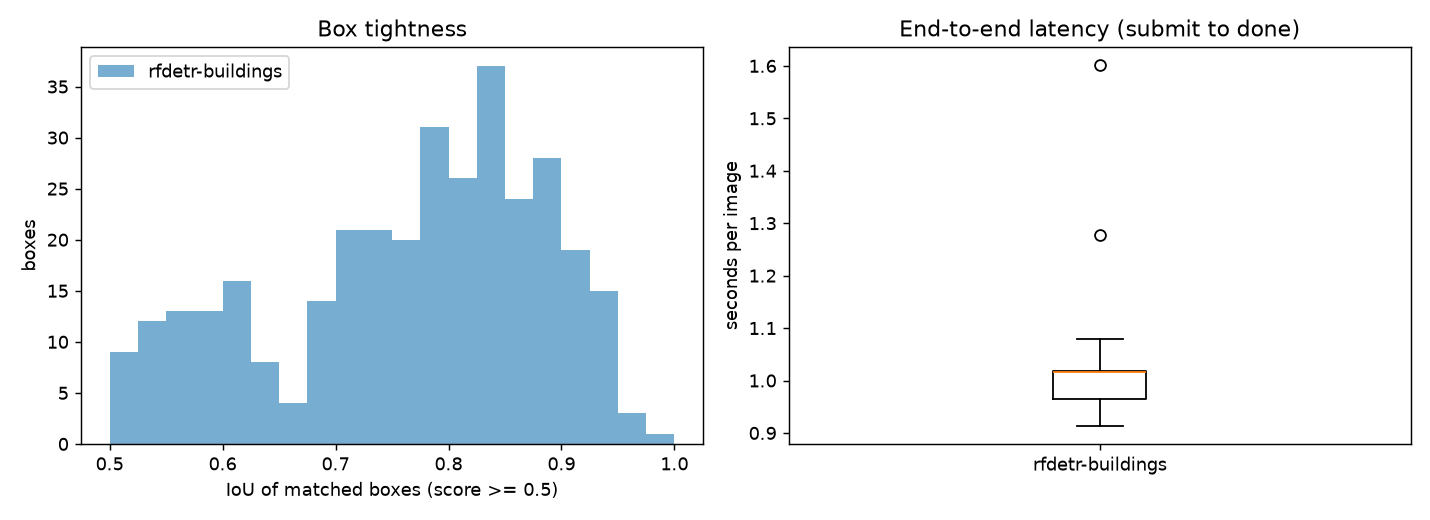
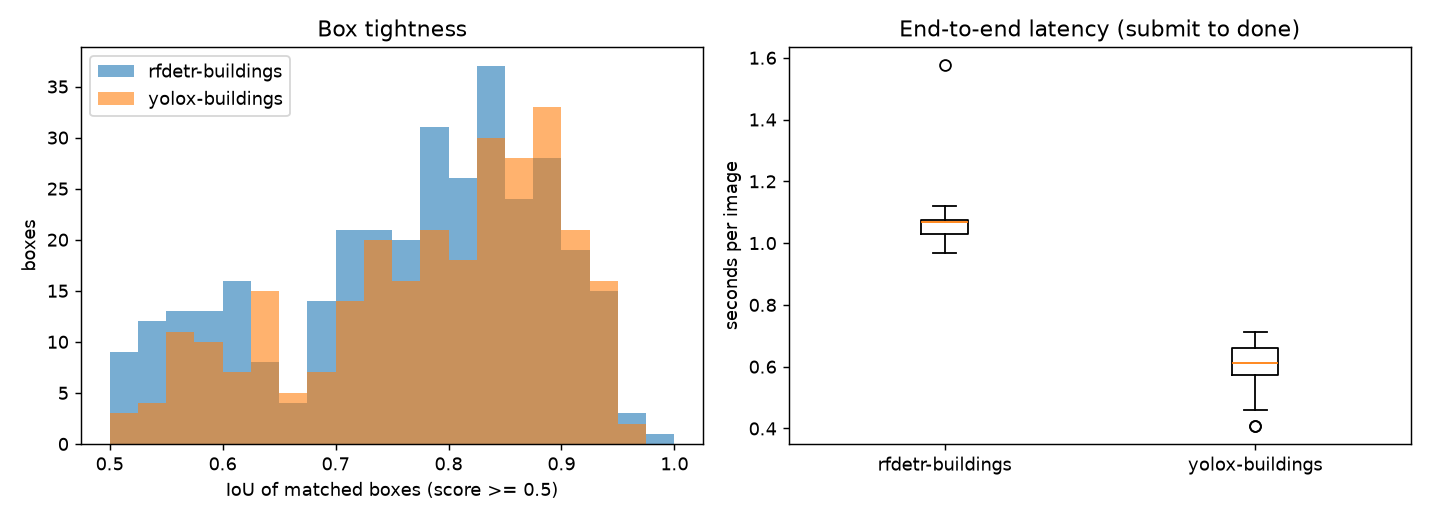
V5b part 3: fine-tune YOLOX-s on SpaceNet buildings and compare with RF-DETR (#14)
Claude-Session: https://claude.ai/code/session_01Xkm7aLAijmSFtDHZcGB5nX

diff --git a/stages/detector/yolox_onnx.py b/stages/detector/yolox_onnx.py
@@ -62,7 +62,7 @@ def decode(raw: np.ndarray, size=SIZE) -> tuple[np.ndarray, np.ndarray]:
 
 
 def yolox_boxes(raw: np.ndarray, ratio: float, shape: tuple[int, int], conf: float,
-                nms_iou: float = NMS_IOU) -> list[Box]:
+                nms_iou: float = NMS_IOU, names: list[str] = COCO80) -> list[Box]:
     """Decode, threshold on the best class, undo the letterbox scale, clip, and NMS per class."""
     boxes, scores = decode(raw)
     cls = scores.argmax(1)
@@ -78,11 +78,11 @@ def yolox_boxes(raw: np.ndarray, ratio: float, shape: tuple[int, int], conf: flo
         for k in nms(boxes[idx], best[idx], nms_iou):
             x1, y1, x2, y2 = boxes[idx[k]]
             result.append(Box(x1=float(x1), y1=float(y1), x2=float(x2), y2=float(y2),
-                              score=float(best[idx[k]]), class_id=int(c), class_name=COCO80[c]))
+                              score=float(best[idx[k]]), class_id=int(c), class_name=names[c]))
     return result
 
 
-def load_yolox(device: str = "cpu"):
+def load_yolox(device: str = "cpu", path: str | None = None, names: list[str] = COCO80):
     import onnxruntime as ort  # only when this backend is enabled
 
     if device == "cuda":
@@ -90,7 +90,7 @@ def load_yolox(device: str = "cpu"):
     providers = ["CPUExecutionProvider"]
     if resolve_device(device, "CUDAExecutionProvider" in ort.get_available_providers()) == "cuda":
         providers.insert(0, "CUDAExecutionProvider")
-    session = ort.InferenceSession(os.environ.get("YOLOX_ONNX", "/models/yolox_s.onnx"),
+    session = ort.InferenceSession(path or os.environ.get("YOLOX_ONNX", "/models/yolox_s.onnx"),
                                    providers=providers)
     if device == "cuda" and session.get_providers()[0] != "CUDAExecutionProvider":
         raise SystemExit("onnxruntime could not load its CUDA provider (missing CUDA libraries?)")
@@ -98,6 +98,6 @@ def load_yolox(device: str = "cpu"):
 
     def detect(img: np.ndarray, conf: float) -> list[Box]:
         x, ratio = letterbox(img)
-        return yolox_boxes(session.run(None, {name: x})[0], ratio, img.shape[:2], conf)
+        return yolox_boxes(session.run(None, {name: x})[0], ratio, img.shape[:2], conf, names=names)
 
     return detect

diff --git a/scripts/yolox_exp.py b/scripts/yolox_exp.py
@@ -1,0 +1,32 @@
+"""YOLOX-s experiment for SpaceNet buildings (one class), used by `make train-yolox`.
+
+YOLOX reads `<data_dir>/train2017`, `<data_dir>/val2017` and `<data_dir>/annotations/*.json`,
+so this builds that layout from the COCO files of `geopipe spacenet-prepare` with symlinks.
+"""
+
+import json
+import os
+import shutil
+
+from yolox.exp import Exp as BaseExp
+
+SRC = os.environ.get("SPACENET_COCO", "/data/spacenet/coco")
+STAGE = "/tmp/yolox_data"
+
+
+class Exp(BaseExp):
+    def __init__(self):
+        super().__init__()
+        self.depth, self.width, self.num_classes = 0.33, 0.50, 1  # YOLOX-s
+        self.max_epoch, self.no_aug_epochs, self.eval_interval = 60, 10, 5
+        self.data_dir, self.train_ann, self.val_ann = STAGE, "train.json", "valid.json"
+        self.exp_name = "yolox-spacenet"
+        self.output_dir = os.environ.get("YOLOX_OUT", "/data/models")
+        shutil.rmtree(STAGE, ignore_errors=True)
+        os.makedirs(f"{STAGE}/annotations")
+        for split, name in (("train", "train2017"), ("valid", "val2017")):
+            os.symlink(f"{SRC}/{split}", f"{STAGE}/{name}")
+            with open(f"{SRC}/{split}/_annotations.coco.json") as f:
+                coco = json.load(f)
+            with open(f"{STAGE}/annotations/{split}.json", "w") as f:
+                json.dump(coco, f)

diff --git a/stages/detector/backends.py b/stages/detector/backends.py
@@ -54,6 +54,14 @@ def load_yolox_backend(device: str) -> Backend:
     return load_yolox(device)
 
 
+def load_yolox_buildings(device: str) -> Backend:
+    """YOLOX-s fine-tuned on SpaceNet buildings (`make train-yolox`), exported to ONNX."""
+    from yolox_onnx import load_yolox
+
+    return load_yolox(device, os.environ.get(
+        "YOLOX_BUILDINGS_ONNX", "/weights/yolox-spacenet/yolox_buildings.onnx"), ["building"])
+
+
 def load_rfdetr_buildings(device: str) -> Backend:
     """RF-DETR Small fine-tuned on SpaceNet buildings (`make train-rfdetr`)."""
     return load_rfdetr(device, os.environ.get(
@@ -64,4 +72,4 @@ def load_rfdetr_buildings(device: str) -> Backend:
 # when enabled.
 BACKENDS: dict[str, Callable[[str], Backend]] = {
     "stub": lambda device: stub_detect, "rfdetr": load_rfdetr, "yolox": load_yolox_backend,
-    "rfdetr-buildings": load_rfdetr_buildings}
+    "rfdetr-buildings": load_rfdetr_buildings, "yolox-buildings": load_yolox_buildings}

diff --git a/scripts/export_yolox_onnx.py b/scripts/export_yolox_onnx.py
@@ -1,0 +1,28 @@
+"""Export a fine-tuned YOLOX checkpoint to ONNX with the raw head output (1, 8400, 5 + classes).
+
+YOLOX's own exporter calls `torch.onnx._export`, which current torch no longer has. The decode
+(grid offsets, NMS) stays outside the graph, in stages/detector/yolox_onnx.py.
+"""
+
+import argparse
+
+import torch
+from yolox.exp import get_exp
+
+
+def main() -> None:
+    p = argparse.ArgumentParser()
+    p.add_argument("exp")
+    p.add_argument("ckpt")
+    p.add_argument("out")
+    a = p.parse_args()
+    model = get_exp(a.exp, None).get_model()
+    model.load_state_dict(torch.load(a.ckpt, map_location="cpu", weights_only=False)["model"])
+    model.eval()
+    model.head.decode_in_inference = False
+    torch.onnx.export(model, torch.zeros(1, 3, 640, 640), a.out, input_names=["images"],
+                      output_names=["output"], opset_version=17, dynamo=False)
+
+
+if __name__ == "__main__":
+    main()

diff --git a/tests/unit/test_yolox.py b/tests/unit/test_yolox.py
@@ -67,3 +67,10 @@ def test_nms_removes_same_class_duplicates_but_keeps_other_classes_and_applies_t
 def test_class_names_match_cocos_80_categories_in_order():
     cats = json.loads((FIXTURES / "coco_mini.json").read_text())["categories"]
     assert [c["name"] for c in sorted(cats, key=lambda c: c["id"])] == COCO80
+
+
+def test_single_class_head_uses_the_given_names():
+    raw = np.zeros((1, 8400, 6), np.float32)  # fine-tuned model: 4 box values, objectness, 1 class
+    raw[0, 20 * 80 + 10] = (0.5, 0.5, np.log(5), np.log(5), 0.9, 0.8)
+    [box] = yolox_boxes(raw, ratio=1.0, shape=(640, 640), conf=0.25, names=["building"])
+    assert (box.class_id, box.class_name) == (0, "building")

diff --git a/AGENTS.md b/AGENTS.md
@@ -2,7 +2,7 @@
 
 GeoTIFF in S3 → slicer → detector → postprocess → georeferenced GeoJSON, as three workers on Valkey Streams plus an S3-API object store (SeaweedFS), run with Docker Compose. It is meant to become a hosted service later, so contracts carry `tenant_id` and stay stateless.
 
-Build order and acceptance tests: `docs/SLICES.md` (its end-to-end lines are the acceptance criteria). Plan: `docs/PLAN.md`. Decisions: `docs/adr/`. Status: V1-V7 merged (V5 = YOLOX plus a COCO benchmark, V6 = HTTP API, V7 = GPU detector); SpaceNet and a local fine-tune are V5b. Next: V5b, then V8. Work is tracked on the Pandan board `GEO` (`pandan board use GEO`); move cards as slices land. Trust the code over the docs where they disagree, and fix the doc.
+Build order and acceptance tests: `docs/SLICES.md` (its end-to-end lines are the acceptance criteria). Plan: `docs/PLAN.md`. Decisions: `docs/adr/`. Status: V1-V7 and V5b merged (V5 = YOLOX plus a COCO benchmark, V6 = HTTP API, V7 = GPU detector, V5b = SpaceNet fine-tunes of both models). Next: V8 (web frontend). Work is tracked on the Pandan board `GEO` (`pandan board use GEO`); move cards as slices land. Trust the code over the docs where they disagree, and fix the doc.
 
 ## Layout
 - `libs/geopipe/`: shared contracts and helpers; must install on 3.12 and 3.13. Only `raster.py`, `finalise.py`, `viz.py` and `bench.py` need GDAL, matplotlib or pycocotools (`viz` and `bench` extras); the detector must never import them.
@@ -13,7 +13,7 @@ Build order and acceptance tests: `docs/SLICES.md` (its end-to-end lines are the
 
 ## Commands
 - `make check`: lint and unit tests, no Docker. This is the pre-push hook (`make hooks` installs it).
-- `make e2e`: stack plus stack tests on a fresh stack (Docker; first build is slow because of torch). `make bench-large`: slow 2 GB benchmark, not in CI. `make bench-coco`: RF-DETR vs YOLOX on 200 COCO images (downloads data). `make spacenet-data`: 300 SpaceNet Khartoum tiles plus COCO files in `data/spacenet/` (CC BY-SA 4.0, never commit; metrics and plots may be). `make train-rfdetr` (GPU) then `make bench-spacenet`; fine-tuned weights live in `data/models/` and are enabled through `DETECTOR_MODELS`.
+- `make e2e`: stack plus stack tests on a fresh stack (Docker; first build is slow because of torch). `make bench-large`: slow 2 GB benchmark, not in CI. `make bench-coco`: RF-DETR vs YOLOX on 200 COCO images (downloads data). `make spacenet-data`: 300 SpaceNet Khartoum tiles plus COCO files in `data/spacenet/` (CC BY-SA 4.0, never commit; metrics and plots may be). `make train-rfdetr` and `make train-yolox` (GPU, use `train/Dockerfile`) then `make bench-spacenet`; fine-tuned weights live in `data/models/` and are enabled through `DETECTOR_MODELS`.
 - `make up-gpu`: detector on the GPU via `compose.gpu.yaml`; never run it alongside the CPU detector (shared consumer group). `make bench-device`: CPU vs GPU tiles/s and parity (needs a GPU, not in CI).
 - `make base` (default GDAL, both Pythons), `make base-all` (every GDAL x Python, slow), `make licences`, `make down`. Bare `make` lists targets.
 
@@ -38,4 +38,5 @@ Build order and acceptance tests: `docs/SLICES.md` (its end-to-end lines are the
 - Submitting identical options is idempotent, so a reused stack returns old results. Tests and benchmarks need a fresh stack (`make e2e` and `make bench-large` start one) or a fresh `tenant_id` (`geopipe bench` does).
 - The WSL2 clock can step backwards. Measure in-process durations with `time.monotonic()`; wall timestamps compared across containers can be off.
 - COCO images carry non-commercial Flickr licences: never commit or publish them or anything derived from them (ADR-0010). `data/` files written by containers are root-owned, so the host cannot write there.
+- Training lives in `train/Dockerfile`, not the inference images. YOLOX's `setup.py` does not build, so its pinned source is on `PYTHONPATH`, and its own ONNX exporter breaks on current torch: use `scripts/export_yolox_onnx.py`. RF-DETR and YOLOX both compile kernels on first use and need gcc/g++ and ninja in the image.
 - Subagent `isolation: worktree` branches from the default branch, not the current one, and is deleted if unchanged. Create the worktree yourself when you need a specific commit.

diff --git a/docs/benchmarks/spacenet-khartoum.md b/docs/benchmarks/spacenet-khartoum.md
@@ -1,8 +1,9 @@
-# SpaceNet Khartoum buildings: fine-tuned RF-DETR Small
+# SpaceNet Khartoum buildings: fine-tuned RF-DETR Small and YOLOX-s
 
 | model | mAP@[.5:.95] | mAP@.5 | AR@100 | P@.5 | R@.5 | F1@.5 | median latency s/img | mean detect s/img | detections |
 |---|---|---|---|---|---|---|---|---|---|
-| rfdetr-buildings | 0.327 | 0.659 | 0.485 | 0.627 | 0.657 | 0.642 | 1.02 | 0.80 | 7794 |
+| rfdetr-buildings | 0.327 | 0.659 | 0.485 | 0.627 | 0.657 | 0.642 | 1.07 | 0.85 | 7794 |
+| yolox-buildings | 0.303 | 0.586 | 0.467 | 0.689 | 0.551 | 0.612 | 0.61 | 0.31 | 1922 |
 
 - Detections were collected at confidence >= 0.05 (needed for mAP). P, R and F1 use detections
   with score >= 0.5 and IoU >= 0.5.
@@ -16,12 +17,15 @@
 ## How this was produced
 
 - Data: 300 tiles of SpaceNet 2 AOI 5 (Khartoum), 650x650 16-bit PS-RGB, split by tile number into 240 train, 30 valid and 30 test (`make spacenet-data`). Test is the 30 held-out tiles scored above, 510 buildings.
-- Training: `make train-rfdetr`, RF-DETR Small from the COCO checkpoint, single class `building`, 30 epochs, batch size 8, on the RTX 3080 Ti Laptop GPU; about 7 minutes. Best validation mAP (EMA weights) was 0.242 on the 30 valid tiles (the test tiles are different tiles, so the two numbers are not comparable).
-- Scoring: `make bench-spacenet`, which runs the held-out GeoTIFFs through the whole pipeline (CPU detector) and scores the GeoJSON pixel boxes against boxes converted from the footprints.
+- RF-DETR Small: `make train-rfdetr`, from the COCO checkpoint, single class `building`, 30 epochs, batch size 8, about 7 minutes on the RTX 3080 Ti Laptop. Best validation mAP (EMA weights) 0.242.
+- YOLOX-s: `make train-yolox`, YOLOX's own trainer from the COCO checkpoint, one class, 60 epochs (last 10 without mosaic), batch size 16, fp16, about 12 minutes. Validation AP@[.5:.95] about 0.24 at the end. Exported to ONNX (raw head, 1 class) and run by the same ONNX Runtime backend as the COCO model.
+- Scoring: `make bench-spacenet` runs the held-out GeoTIFFs through the whole pipeline (CPU detector, one image at a time) and scores the GeoJSON pixel boxes against boxes converted from the footprints. Both models see identical inputs.
+- The validation numbers are on the 30 valid tiles; the table is on the 30 test tiles, so they are not comparable.
 
 ## Reading the numbers
 
-- Before fine-tuning the COCO weights have no `building` class, so the score was 0 by construction; the fine-tune is what makes the model useful here.
+- Before fine-tuning the COCO weights have no `building` class, so the score was 0 by construction; the fine-tune is what makes either model useful here.
+- RF-DETR is ahead on mAP and recall (0.327 vs 0.303 mAP@[.5:.95]; recall 0.66 vs 0.55 at IoU 0.5). YOLOX is more precise at the 0.5 score cut (0.69 vs 0.63) and about 2.7x faster in the detector (0.31 s vs 0.85 s per 650 px tile, CPU), which is the same trade as on COCO. YOLOX also emits far fewer low-score boxes (1922 vs 7794 at confidence 0.05), so its precision-recall curve ends earlier.
 - Footprints are converted to axis-aligned boxes, which overstates the area of rotated buildings, and many Khartoum buildings are small, touching or nested. That caps IoU, and mAP@[.5:.95] is the harder number.
-- One city, one run, 30 tiles: the numbers show the pipeline and fine-tune work on overhead imagery, not how well the model generalises to other places or sensors. A YOLOX comparison is the next step.
+- One city, one training run per model, 30 test tiles: the differences between models are small enough that a different split or seed could change the order of some metrics. The numbers show that the pipeline and the fine-tunes work on overhead imagery, not how well they generalise to other cities or sensors.
 - The tiles are CC BY-SA 4.0 and are not in the repo; only these metrics and plots are.

diff --git a/README.md b/README.md
@@ -85,7 +85,14 @@ Duplicates across overlapping tiles are removed by class-wise NMS. An object lar
 
 ### SpaceNet buildings (fine-tuned)
 
-`make spacenet-data` fetches 300 SpaceNet 2 Khartoum tiles (730 MB, CC BY-SA 4.0, kept out of git), `make train-rfdetr` fine-tunes RF-DETR Small on 240 of them on the GPU (about 7 minutes), and `make bench-spacenet` scores the other 30 through the full pipeline: **mAP@.5 0.66, F1 0.64** for the fine-tuned model, where the COCO weights score 0 because they have no building class. One city and one run; details and caveats in [`docs/benchmarks/spacenet-khartoum.md`](docs/benchmarks/spacenet-khartoum.md) and [ADR-0010](docs/adr/0010-spacenet-benchmark-dataset.md). Enable the model with `DETECTOR_MODELS=stub,rfdetr,yolox,rfdetr-buildings`.
+`make spacenet-data` fetches 300 SpaceNet 2 Khartoum tiles (730 MB, CC BY-SA 4.0, kept out of git), `make train-rfdetr` and `make train-yolox` fine-tune on 240 of them on the GPU (about 7 and 12 minutes), and `make bench-spacenet` scores the other 30 through the full pipeline. The COCO weights score 0 here because they have no building class.
+
+| model | mAP@[.5:.95] | mAP@.5 | F1@.5 | detector s/tile (CPU) |
+|---|---|---|---|---|
+| RF-DETR Small, fine-tuned | 0.327 | 0.659 | 0.642 | 0.85 |
+| YOLOX-s, fine-tuned | 0.303 | 0.586 | 0.612 | 0.31 |
+
+One city and one run per model; details and caveats in [`docs/benchmarks/spacenet-khartoum.md`](docs/benchmarks/spacenet-khartoum.md) and [ADR-0010](docs/adr/0010-spacenet-benchmark-dataset.md). Enable the models with `DETECTOR_MODELS=stub,rfdetr,yolox,rfdetr-buildings,yolox-buildings`.
 
 ## GDAL + Python + numpy 2 base images
 
@@ -102,7 +109,7 @@ Build locally: `make base` (default GDAL, both Pythons) or `make base-all` (ever
 
 ## Status and roadmap
 
-Slices V1-V7 are done: the pipeline, RF-DETR and YOLOX, large rasters, plots, failure handling (retries, dead letters, stall timeouts), a COCO benchmark, an HTTP API and a GPU detector. Next are a SpaceNet benchmark with fine-tuned weights, and a web frontend; see a SpaceNet benchmark with fine-tuned weights. See [`docs/SLICES.md`](docs/SLICES.md) for the build order, [`docs/PLAN.md`](docs/PLAN.md) for the plan and [`docs/adr/`](docs/adr) for the decisions.
+Slices V1-V7 and V5b are done: the pipeline, RF-DETR and YOLOX, large rasters, plots, failure handling (retries, dead letters, stall timeouts), a COCO benchmark, an HTTP API and a GPU detector. The web frontend is next; see a SpaceNet benchmark with fine-tuned weights. See [`docs/SLICES.md`](docs/SLICES.md) for the build order, [`docs/PLAN.md`](docs/PLAN.md) for the plan and [`docs/adr/`](docs/adr) for the decisions.
 
 ## Contributing
 

diff --git a/docs/SLICES.md b/docs/SLICES.md
@@ -187,7 +187,7 @@ An interactive dashboard is out of scope here. indah (the owner's reactive UI fr
 - YOLOX letterbox and decode: boxes map back to original pixel coordinates; NMS and the confidence threshold are applied.
 - Matching and P/R/F1 agree with a hand-computed case; perfect detections score mAP 1.0.
 
-## V5b: SpaceNet benchmark and fine-tune (RF-DETR done, YOLOX next)
+## V5b: SpaceNet benchmark and fine-tune (done)
 
 **Delivers:** R10 on overhead imagery
 
